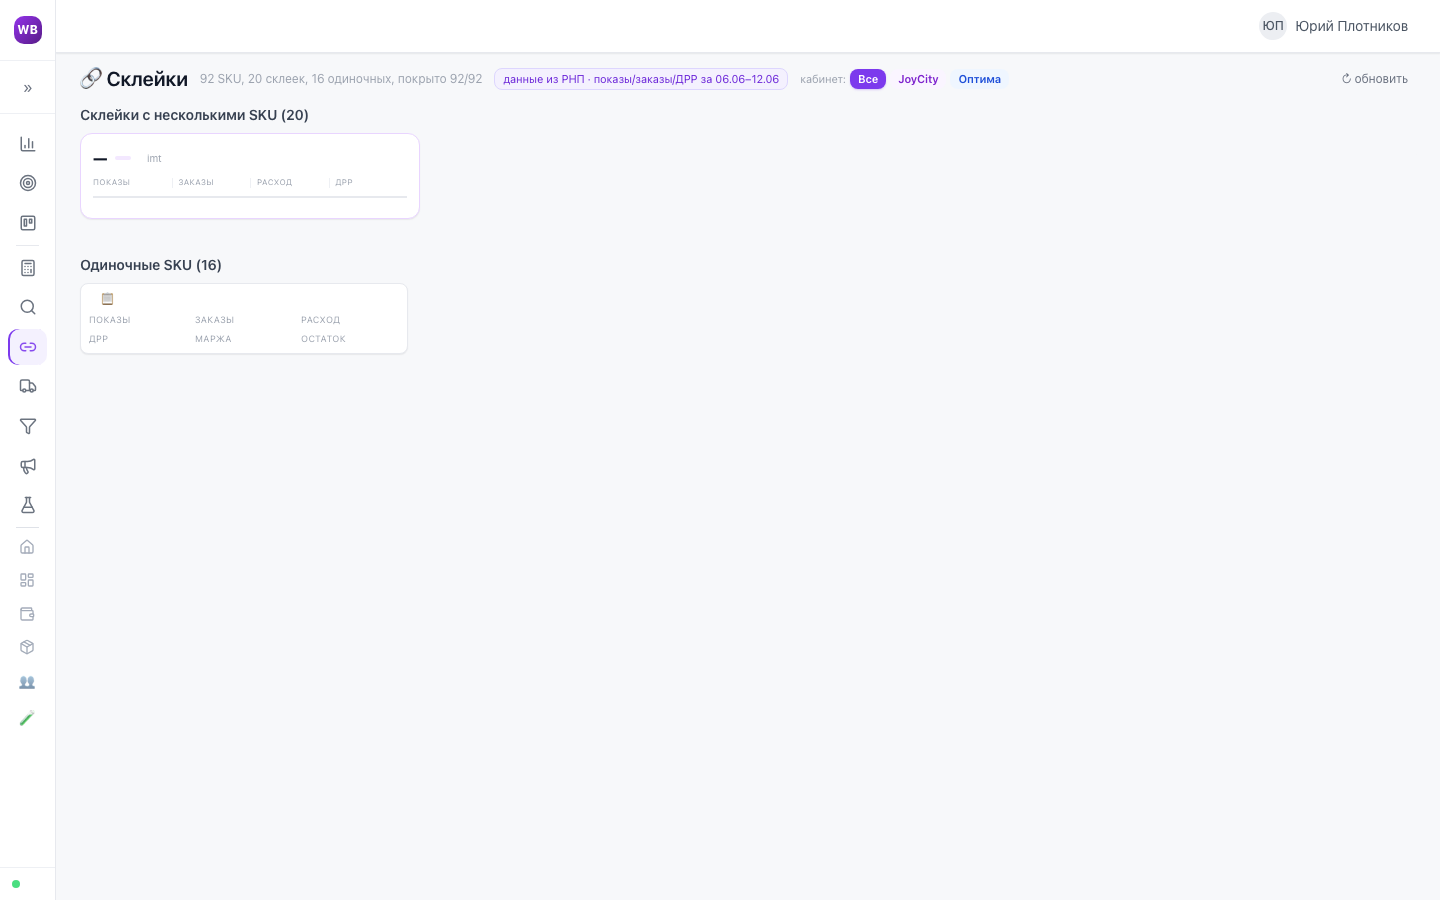
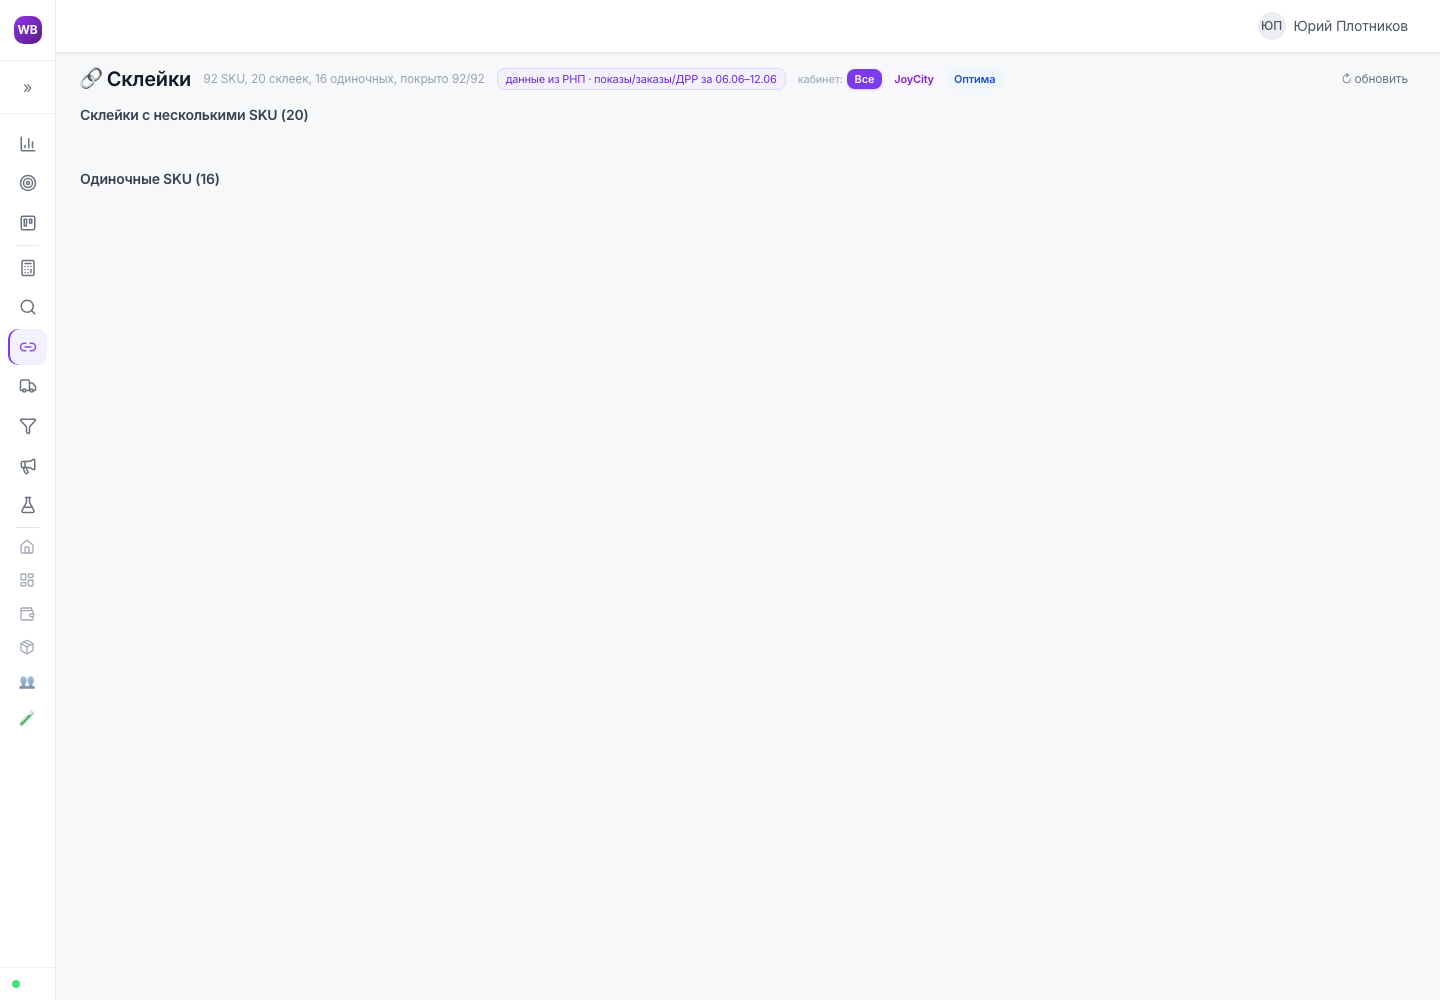
Fix sklejki: inferno contract (imt_id/skus + funnel metrics + verdicts)
Роут отдавал {imt,items} без метрик → счётчики были, но карточки пустые.
Теперь {imt_id, skus:[{shows_7d,orders_sum_7d,adv_spend_7d/14d,drr_7d,
margin_before_drr,stock,signal}], shop_label, category_label} — обогащаю SKU
воронкой/рекламой из синка (7д/14д) + категория из Content API. Карточки и
вердикты (Несущая/Сливает/Дорогая) рендерятся.

diff --git a/app/api/sklejki/route.ts b/app/api/sklejki/route.ts
@@ -1,5 +1,6 @@
 import { NextResponse } from "next/server";
 import { wbCardImageUrl } from "@/lib/wb/cardImage";
+import { getSupabaseAdmin } from "@/lib/supabaseAdmin";
 
 export const dynamic = "force-dynamic";
 export const maxDuration = 60;
@@ -12,12 +13,21 @@ interface WbCard {
   imtID: number;
   vendorCode: string;
   title?: string;
+  subjectName?: string;
 }
 
-// Контракт inferno: {groups_multi, groups_solo, total_sku, multi_groups, solo_skus, covered}
+interface FunnelRow { nm_id: number; date: string; add_to_cart: number; orders: number; orders_sum: number }
+interface AdRow { nm_id: number; date: string; views: number; spent: number }
+interface RpcTotal { nm_id: number; stock: number; cost: number | null }
+
+const r1 = (v: number) => Math.round(v * 10) / 10;
+
+// Контракт inferno: {groups_multi, groups_solo, total_sku, multi_groups, solo_skus, covered}.
+// Группа: {imt_id, skus:[{nm,art,img_url,shop,shows_7d,orders_sum_7d,adv_spend_7d,adv_spend_14d,drr_7d,margin_before_drr,stock,signal,...}], shop_label, category_label}.
 export async function GET() {
   if (!WB_CONTENT_TOKEN) return NextResponse.json({ groups_multi: [], groups_solo: [], total_sku: 0, multi_groups: 0, solo_skus: 0, covered: 0 });
 
+  // 1) карточки из Content API
   const cards: WbCard[] = [];
   let cursor: { updatedAt?: string; nmID?: number } = {};
   try {
@@ -29,7 +39,7 @@ export async function GET() {
         cache: "no-store",
       });
       if (!res.ok) break;
-      const json = (await res.json()) as { cards?: WbCard[]; cursor?: { updatedAt?: string; nmID?: number; total?: number } };
+      const json = (await res.json()) as { cards?: WbCard[]; cursor?: { updatedAt?: string; nmID?: number } };
       const batch = json.cards ?? [];
       cards.push(...batch);
       if (batch.length < 100) break;
@@ -39,22 +49,74 @@ export async function GET() {
     /* ignore */
   }
 
+  // 2) метрики воронки/рекламы по nm (7д и 14д) из синка
+  const db = getSupabaseAdmin();
+  const m7 = new Map<number, { views: number; spent: number; cart: number; oc: number; os: number }>();
+  const spent14 = new Map<number, number>();
+  const totals = new Map<number, RpcTotal>();
+  if (db) {
+    const since = new Date(Date.now() - 14 * 86400000).toISOString().slice(0, 10);
+    const week = new Set(
+      Array.from({ length: 7 }, (_, i) => new Date(Date.now() - i * 86400000).toISOString().slice(0, 10)),
+    );
+    const [fRes, aRes, tRes] = await Promise.all([
+      db.from("wb_funnel_daily").select("nm_id, date, add_to_cart, orders, orders_sum").gte("date", since),
+      db.from("wb_advert_nm_daily").select("nm_id, date, views, spent").gte("date", since),
+      db.rpc("rnp_report"),
+    ]);
+    const g7 = (nm: number) => { let x = m7.get(nm); if (!x) { x = { views: 0, spent: 0, cart: 0, oc: 0, os: 0 }; m7.set(nm, x); } return x; };
+    for (const f of (fRes.data ?? []) as FunnelRow[]) {
+      if (week.has(String(f.date).slice(0, 10))) { const x = g7(f.nm_id); x.cart += f.add_to_cart || 0; x.oc += f.orders || 0; x.os += Number(f.orders_sum || 0); }
+    }
+    for (const a of (aRes.data ?? []) as AdRow[]) {
+      const iso = String(a.date).slice(0, 10);
+      spent14.set(a.nm_id, (spent14.get(a.nm_id) ?? 0) + Number(a.spent || 0));
+      if (week.has(iso)) { const x = g7(a.nm_id); x.views += a.views || 0; x.spent += Number(a.spent || 0); }
+    }
+    for (const t of (tRes.data ?? []) as RpcTotal[]) totals.set(t.nm_id, t);
+  }
+
+  const enrich = (c: WbCard) => {
+    const a = m7.get(c.nmID);
+    const t = totals.get(c.nmID);
+    const cost = Number(t?.cost ?? 0);
+    const os = a?.os ?? 0, oc = a?.oc ?? 0, views = a?.views ?? 0, spent = a?.spent ?? 0;
+    const price = oc > 0 ? os / oc : 0;
+    return {
+      nm: c.nmID,
+      art: c.vendorCode || String(c.nmID),
+      name: c.title || c.vendorCode || "",
+      img_url: wbCardImageUrl(c.nmID),
+      shop: "Магазин",
+      shows_7d: views,
+      orders_sum_7d: Math.round(os),
+      adv_spend_7d: Math.round(spent),
+      adv_spend_14d: Math.round(spent14.get(c.nmID) ?? 0),
+      drr_7d: os > 0 ? r1((spent / os) * 100) : (spent > 0 ? null : 0),
+      margin_before_drr: price > 0 && cost > 0 ? r1(((price - cost) / price) * 100) : null,
+      stock: Number(t?.stock ?? 0),
+      nm_rating: null,
+      nm_feedbacks: undefined,
+      signal: views === 0 && oc === 0 ? "Без трафика" : null,
+    };
+  };
+
+  // 3) группировка по imtID
   const byImt = new Map<number, WbCard[]>();
   for (const c of cards) {
     if (!byImt.has(c.imtID)) byImt.set(c.imtID, []);
     byImt.get(c.imtID)!.push(c);
   }
 
-  const toItem = (c: WbCard) => ({
-    nm: c.nmID,
-    art: c.vendorCode || String(c.nmID),
-    name: c.title || c.vendorCode || "",
-    img_url: wbCardImageUrl(c.nmID),
-    rating: null,
-    feedbacks: null,
-    metrics: [],
+  const toGroup = (imt: number, items: WbCard[]) => ({
+    imt_id: imt,
+    shop_label: "Магазин",
+    category_label: items[0]?.subjectName || "",
+    valuation: null,
+    feedback_count: 0,
+    hide_group_rating: true,
+    skus: items.map(enrich),
   });
-  const toGroup = (imt: number, items: WbCard[]) => ({ imt, count: items.length, items: items.map(toItem) });
 
   const groups_multi: ReturnType<typeof toGroup>[] = [];
   const groups_solo: ReturnType<typeof toGroup>[] = [];
@@ -63,7 +125,7 @@ export async function GET() {
     if (items.length > 1) groups_multi.push(g);
     else groups_solo.push(g);
   }
-  groups_multi.sort((a, b) => b.count - a.count);
+  groups_multi.sort((a, b) => b.skus.length - a.skus.length);
 
   return NextResponse.json({
     groups_multi,
